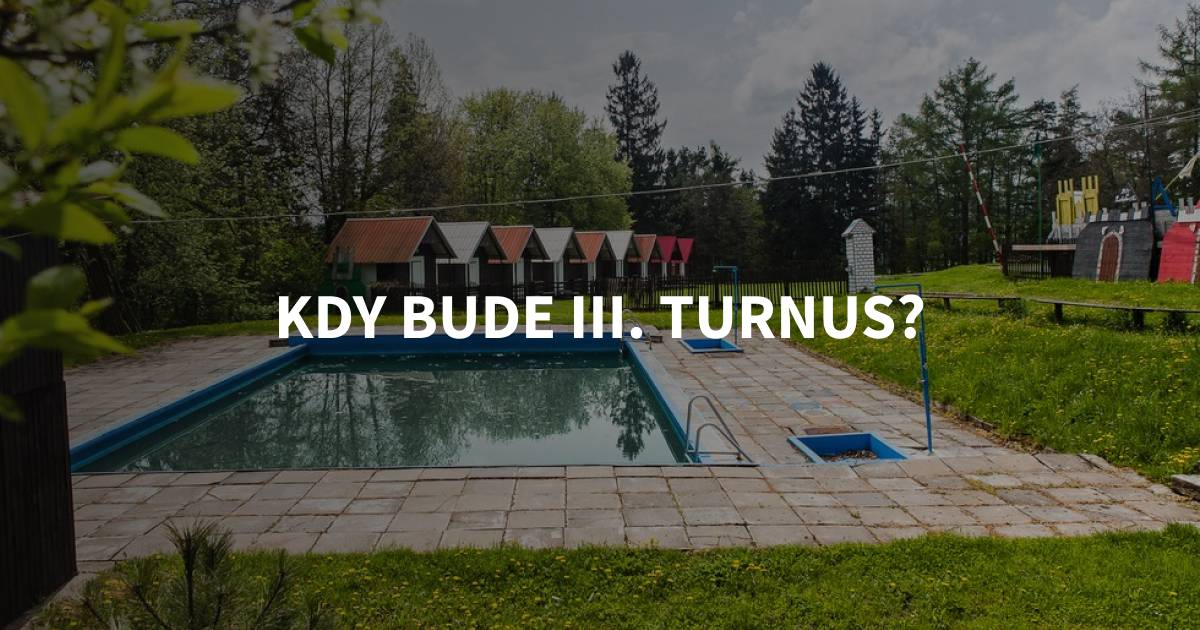
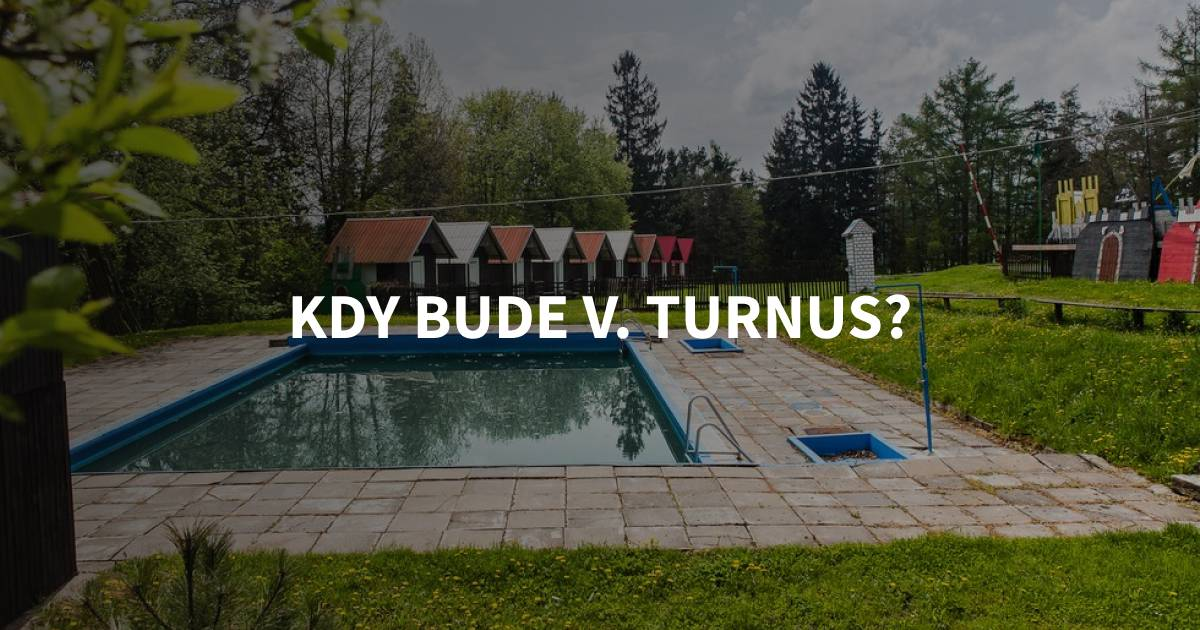
init 2023

Changed region(s): [[0.2158, 0.4524, 0.7708, 0.5429]]

diff --git a/index.html b/index.html
@@ -6,20 +6,20 @@
     <meta http-equiv="X-UA-Compatible" content="ie=edge" />
     <link rel="stylesheet" href="style.css" />
     <link rel="shortcut icon" href="faicon.png" type="image/x-icon" />
-    <title>KDY ZAČNE III. TURNUS?</title>
-    <meta property="og:title" content="KDY ZAČNE III. TURNUS?" />
+    <title>KDY ZAČNE V. TURNUS?</title>
+    <meta property="og:title" content="KDY ZAČNE V. TURNUS?" />
     <meta property="og:description" content="Pro odpočet mrkni na tuhle stránku! A pokud tě nebaví čekat, mrkni na video z minulého roku!" />
     <meta property="og:image" content="https://trojka.filipkalousek.cz/og-image.jpg" />
   </head>
   <body>
     <nav>
-      <h1>KDY ZAČNE III. TURNUS?</h1>
+      <h1>KDY ZAČNE V. TURNUS?</h1>
     </nav>
     <div class="container">
       <div class="side">
         <div class="content-text">
           <h1>
-            <a href="https://youtu.be/tJavDjV-ijw" target="_blank">
+            <a href="https://youtu.be/x0HvrgccO6k" target="_blank">
               Nekoukej na odpočet <br />
               a mrkni na video zloňska!
             </a>
@@ -64,7 +64,7 @@
       </div>
     </footer>
     <script>
-      const endDate = new Date('2023-07-24 14:00:00');
+      const endDate = new Date('2023-08-24 14:00:00');
       const share = document
         .querySelector("[data-share]")
         .addEventListener("click", () => {
